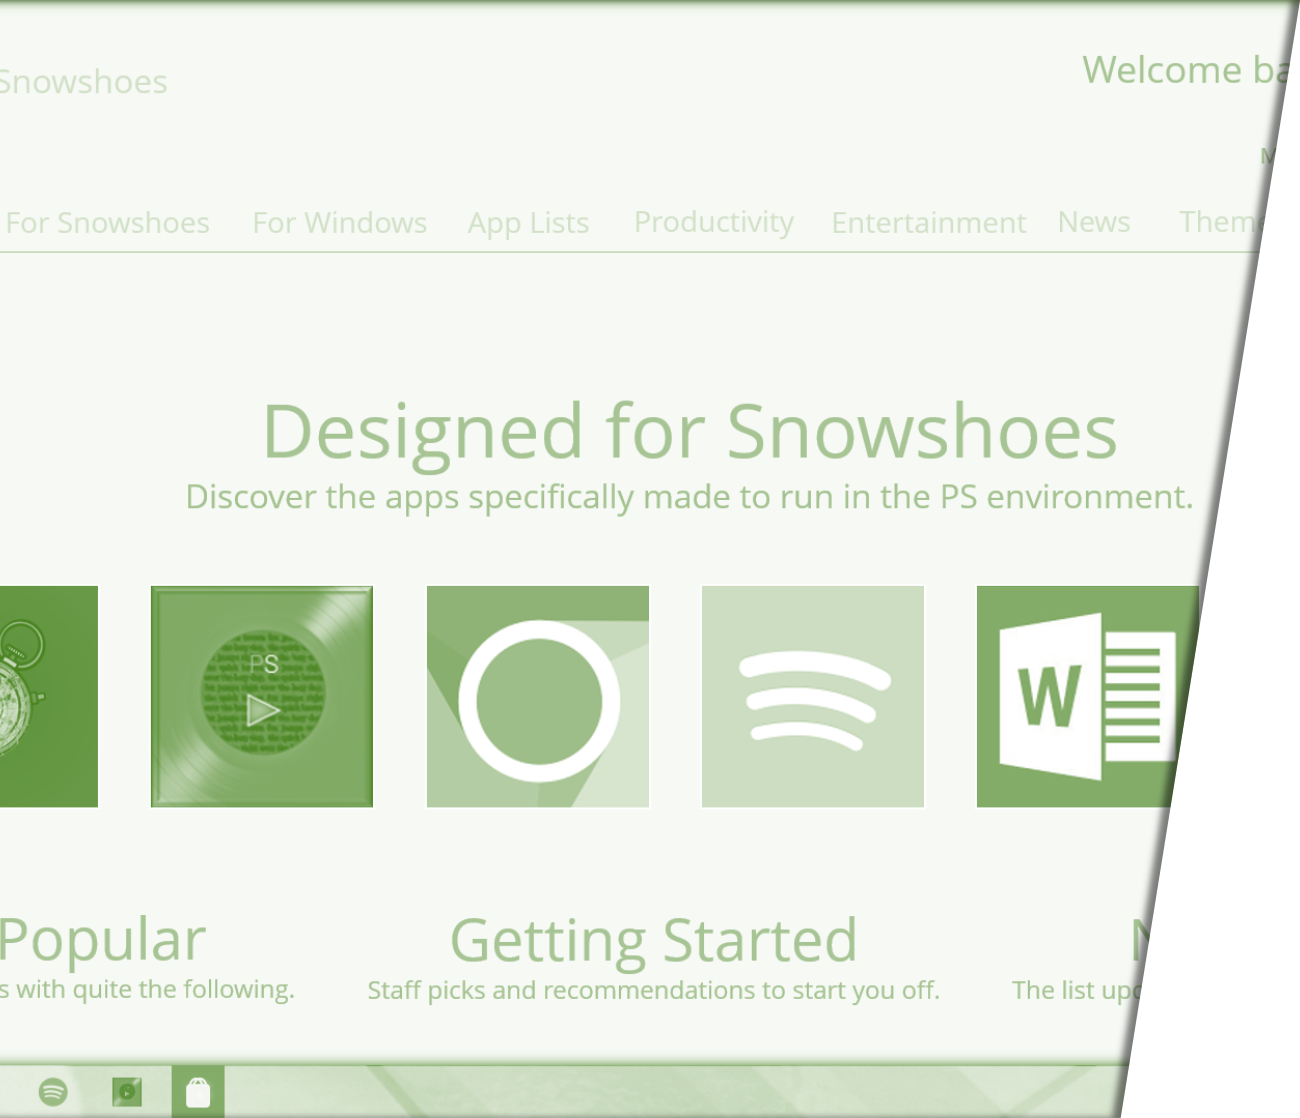
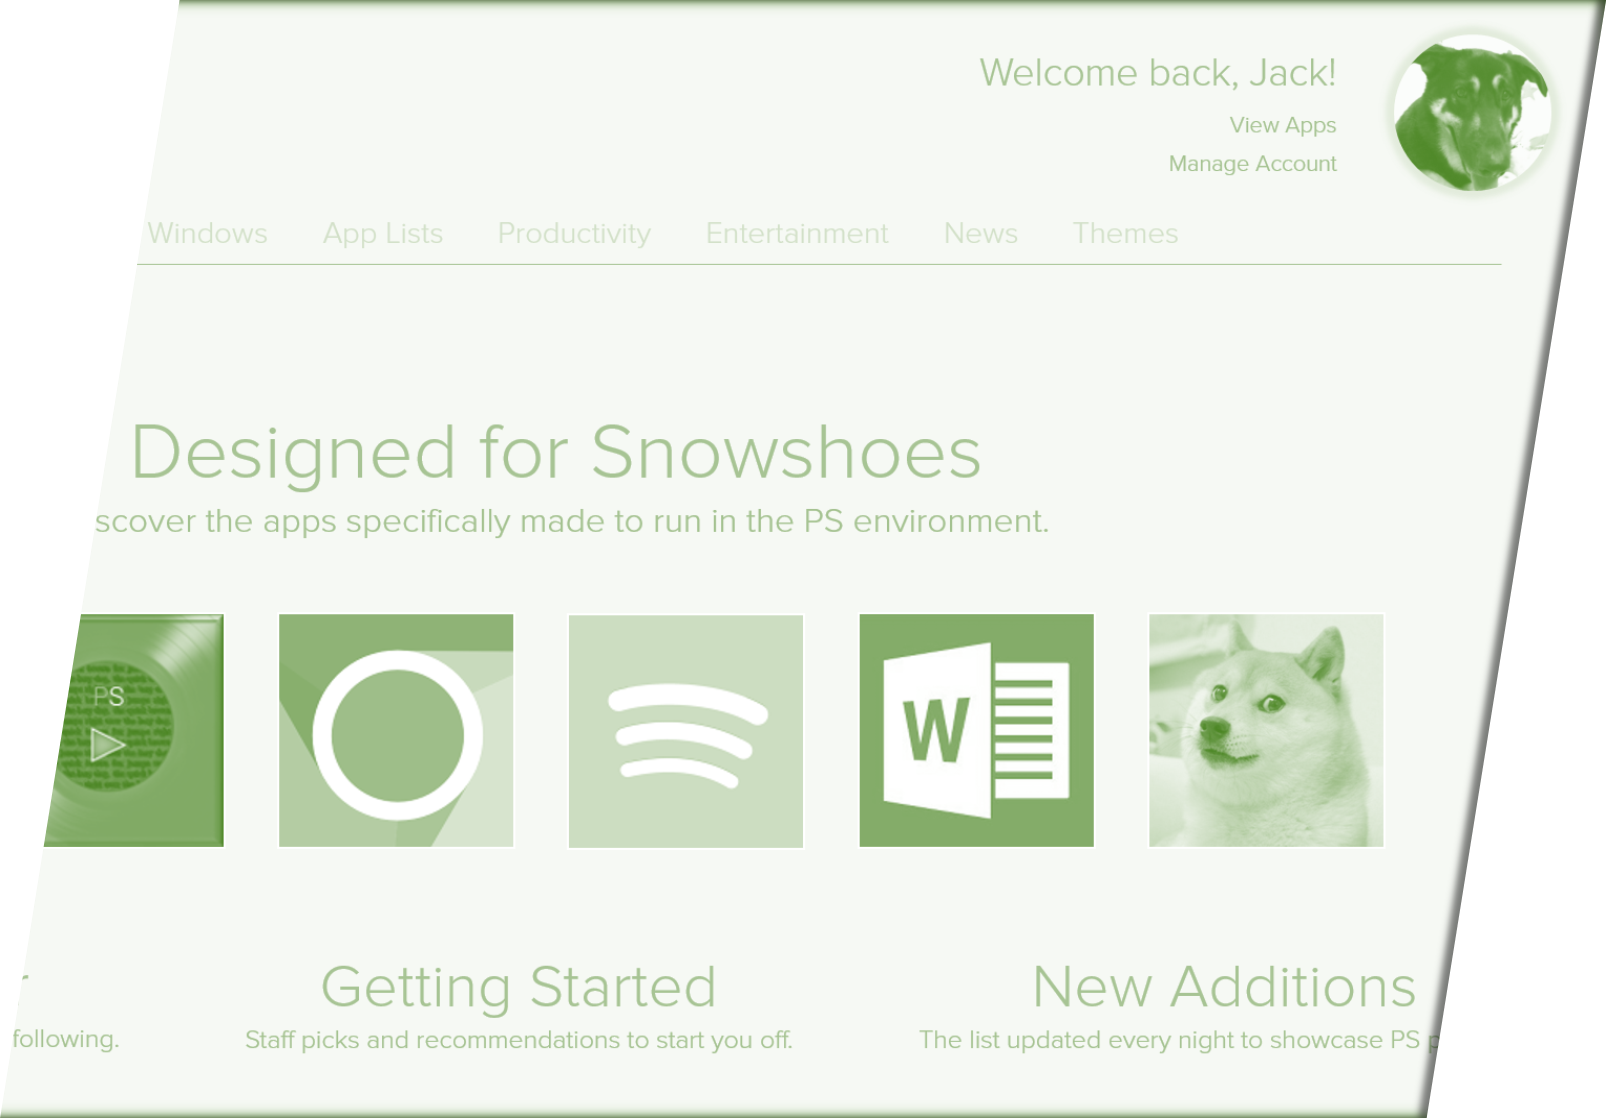
Adjusted Second Slide Image on Snowshoes Page
This should work with standard 16:9 screens a lot nicer, now...even on a
compressed (split-screen) view.

diff --git a/new/projects/snowshoes/css/main1.css b/new/projects/snowshoes/css/main1.css
@@ -14,6 +14,23 @@ a {
     transition: background-color 0.2s;
 }
 
+/* Overlay concept, large part of code borrowed from @watercycle */
+#overlay {
+		position: absolute; /* force overlay on top of background image*/
+		width: 65%;
+		height: 100%;
+		margin: 0;
+		padding: 0;
+		left: -15%; /* more negative => less overlay shows */
+		top: 0;
+		background-image: url("../img/sure.png");
+		
+		-webkit-transform: skewX(-9deg);
+		-ms-transform: skewX(-9deg);
+		transform: skewX(-9deg); /* skew */
+		box-shadow: none;
+}
+
 #hoverbar {
 	background-color:White;
 	box-shadow: 0px 10px 10px rgba(68,68,68,0.5);

diff --git a/new/projects/snowshoes/index.html b/new/projects/snowshoes/index.html
@@ -51,6 +51,7 @@
 
 		<div id="s2">
 			<img style="right:45%; position:absolute" src="./img/ohdear.png" height=100% align=left />
+			<!-- <div id="overlay"> <img style="left:0px; position:absolute" src="./img/ohdear.png" align=left /> </div> -->
 
 			<div id="s4t">
 				<span class="ps-title">The best joins the best.</span><br/><br />
